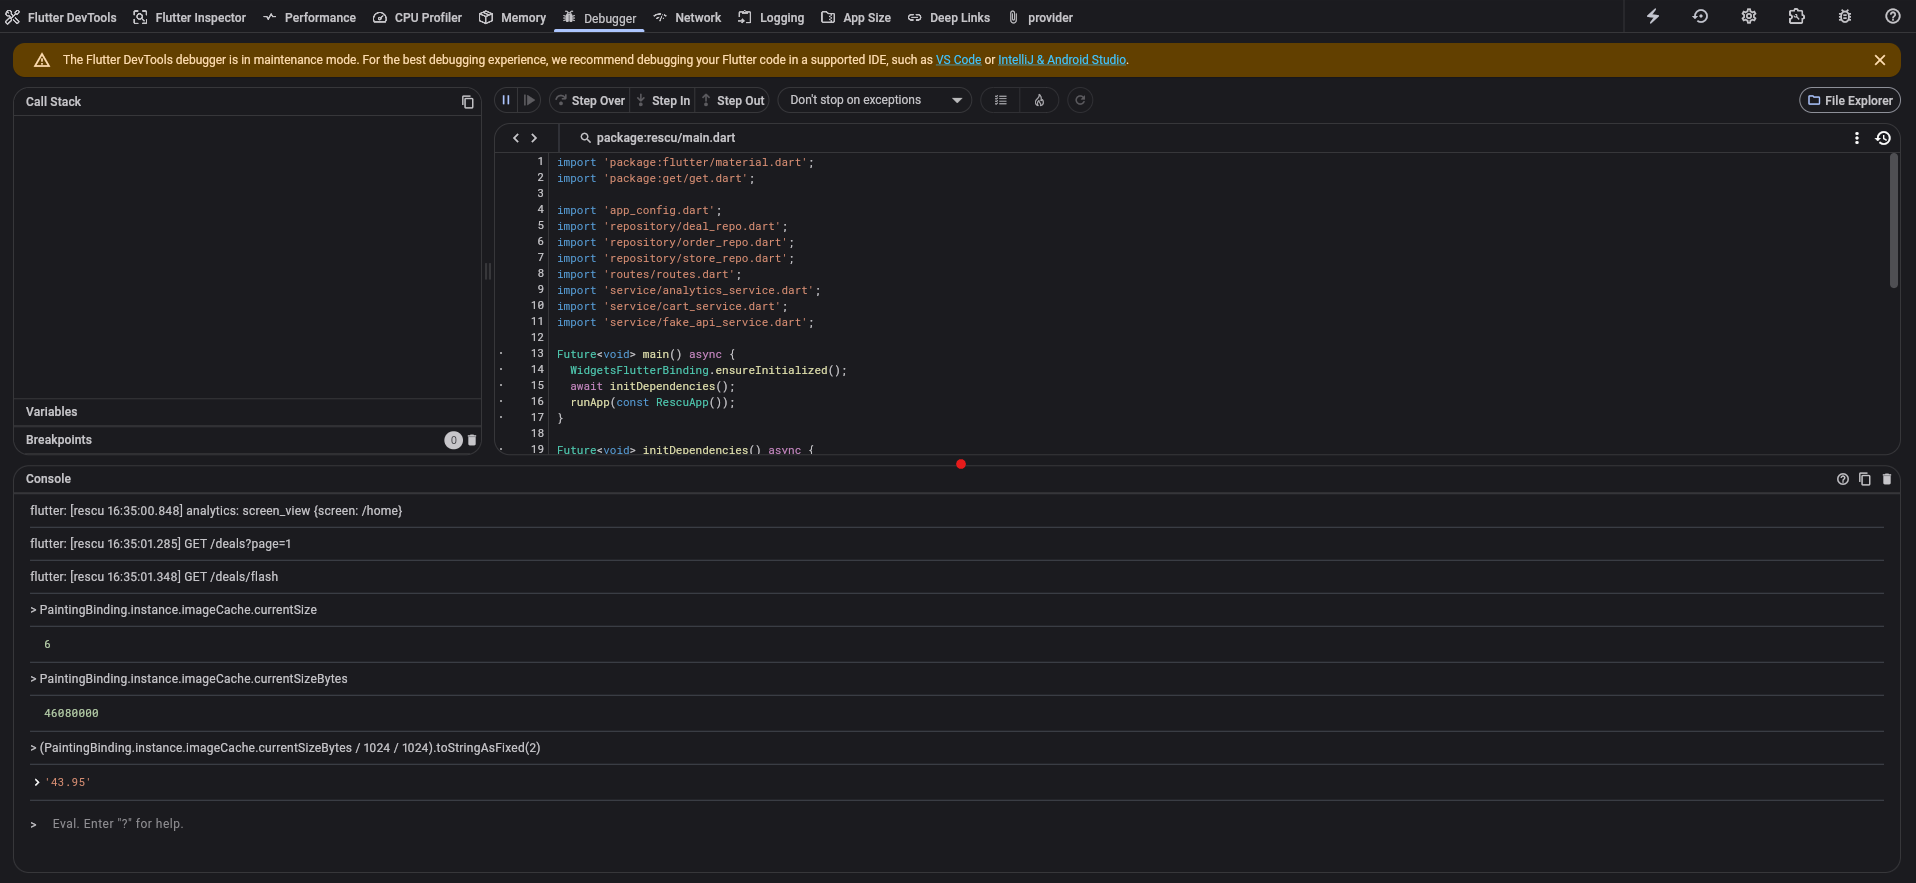
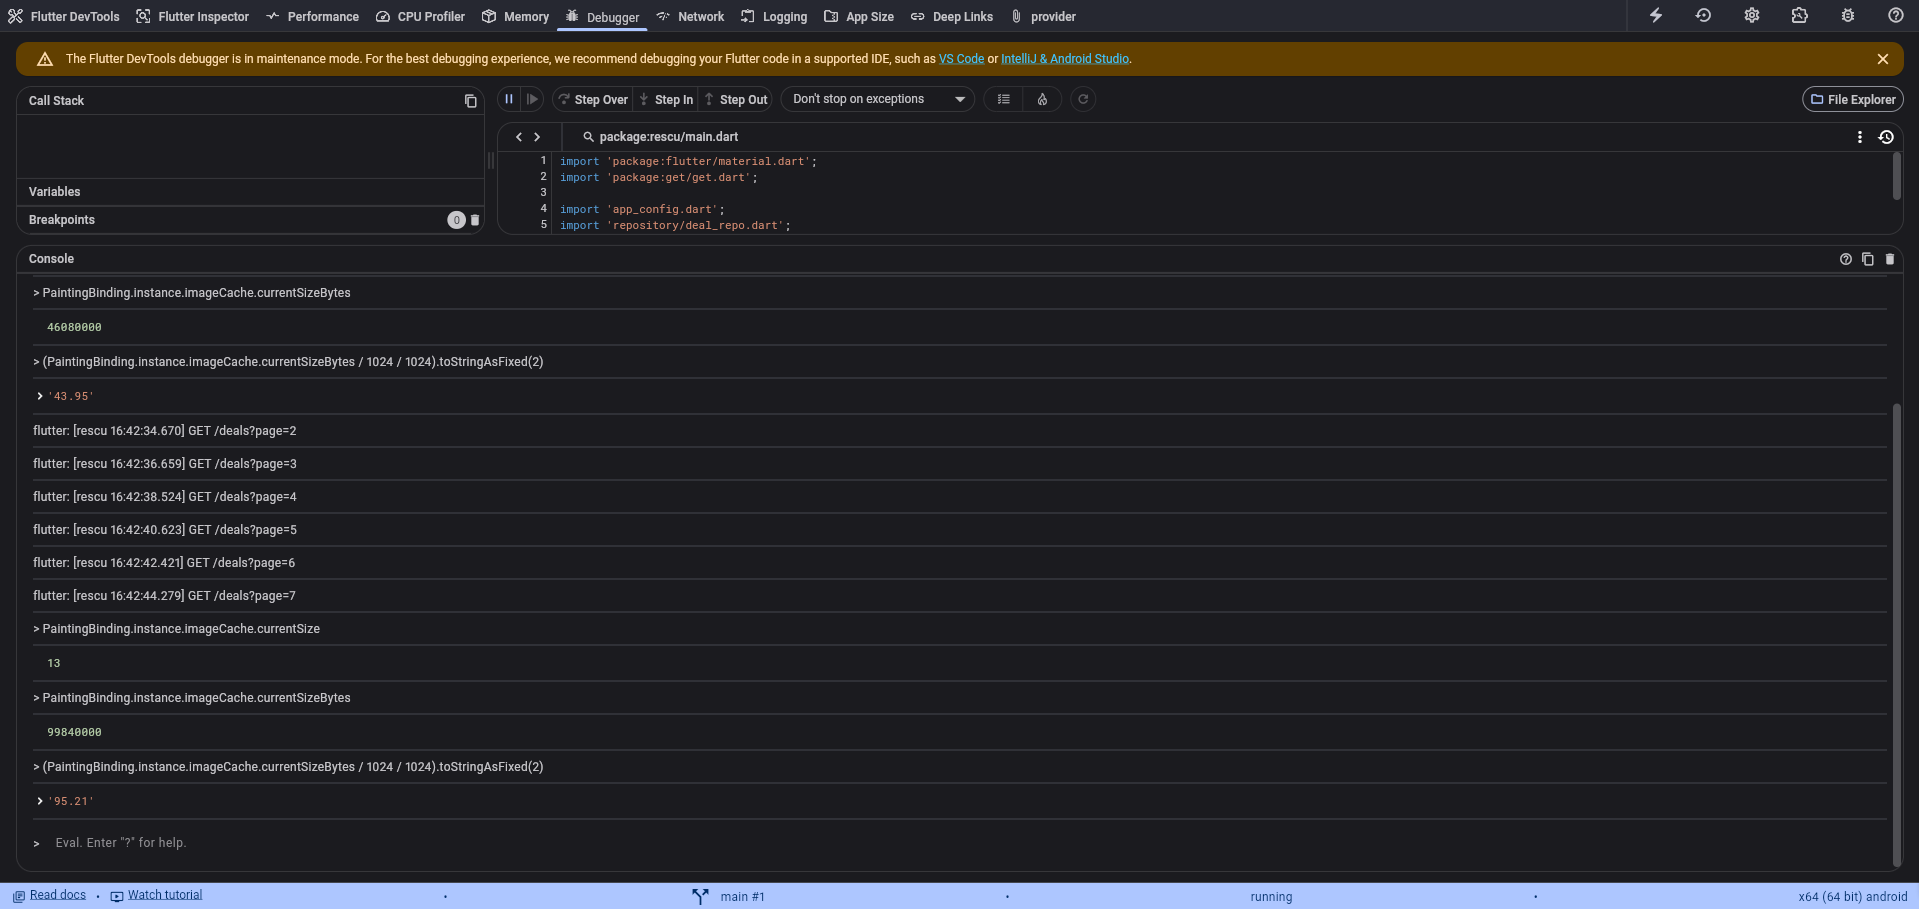
[RES-105] Correct before image-cache evidence

diff --git a/solutions.md b/solutions.md
@@ -384,11 +384,7 @@ as earlier checkpoints under the RES-104-only documentation scope.
 
 Curated captures: [profile performance](docs/res105/RES-105_before_performance_profile.png),
 [447 rebuilds](docs/res105/RES-105_before_rebuild_stats_447.png), and
-[image cache](docs/res105/RES-105_before_image_cache_end_full.png).
-Despite its filename, the included BEFORE cache screenshot shows the START
-values (6 entries / 46,080,000 bytes), not the END values. The END figures
-below remain the candidate's reported measurements, not values visible in
-this particular screenshot.
+[image cache at page 7](docs/res105/RES-105_before_image_cache_end_full.png).
 
 The candidate supplied these real pre-RES-105 DevTools observations. Codex
 did not collect these captures independently. Device, exact capture duration
